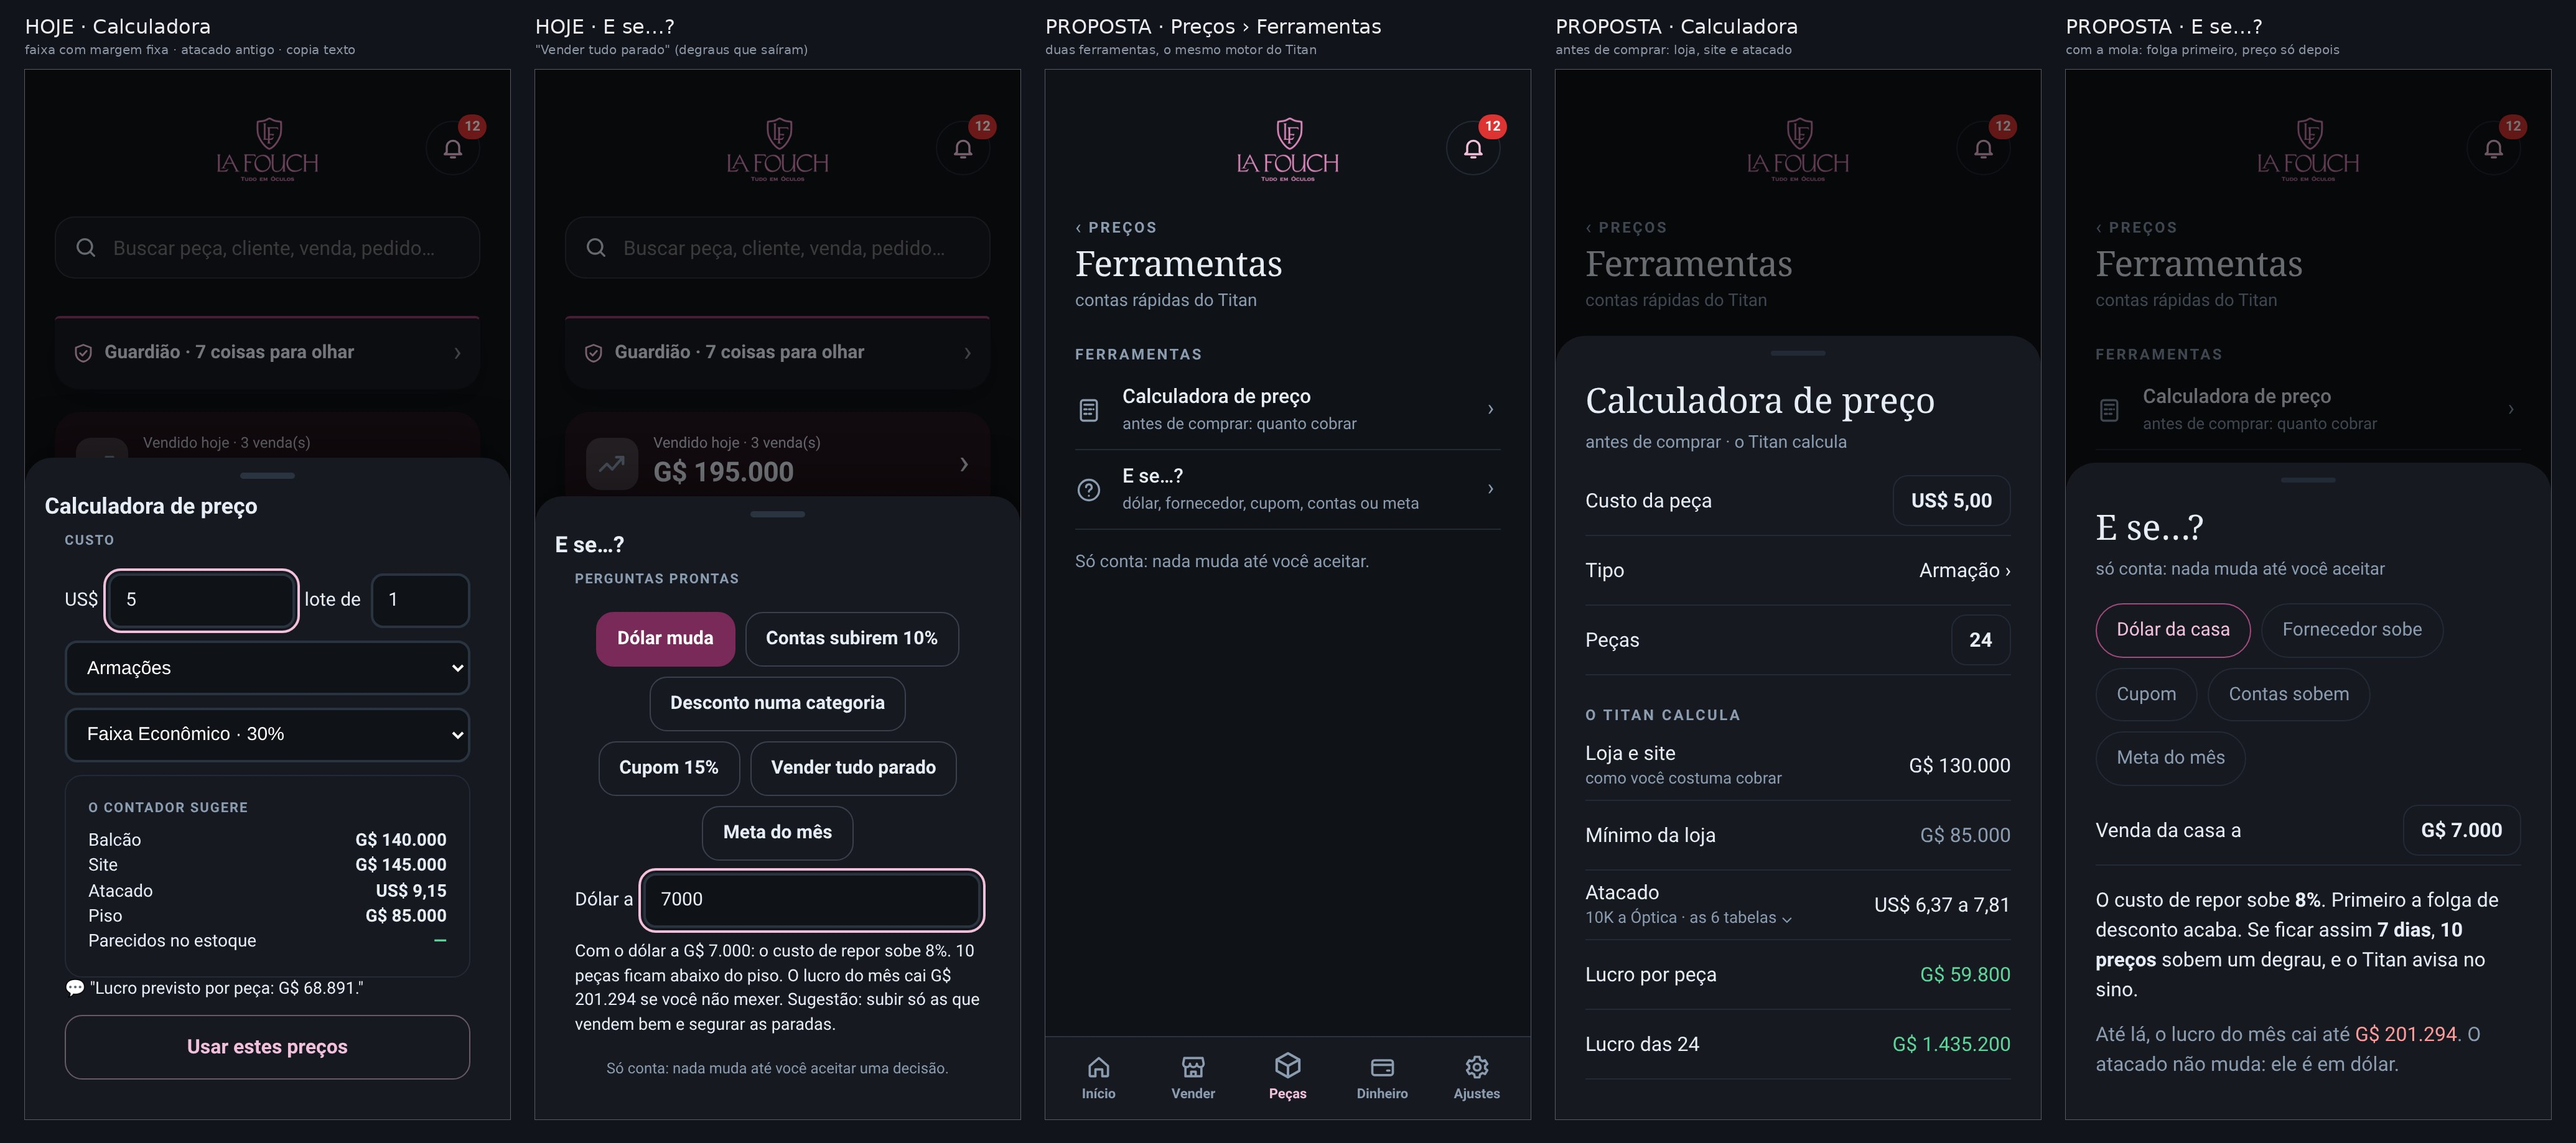
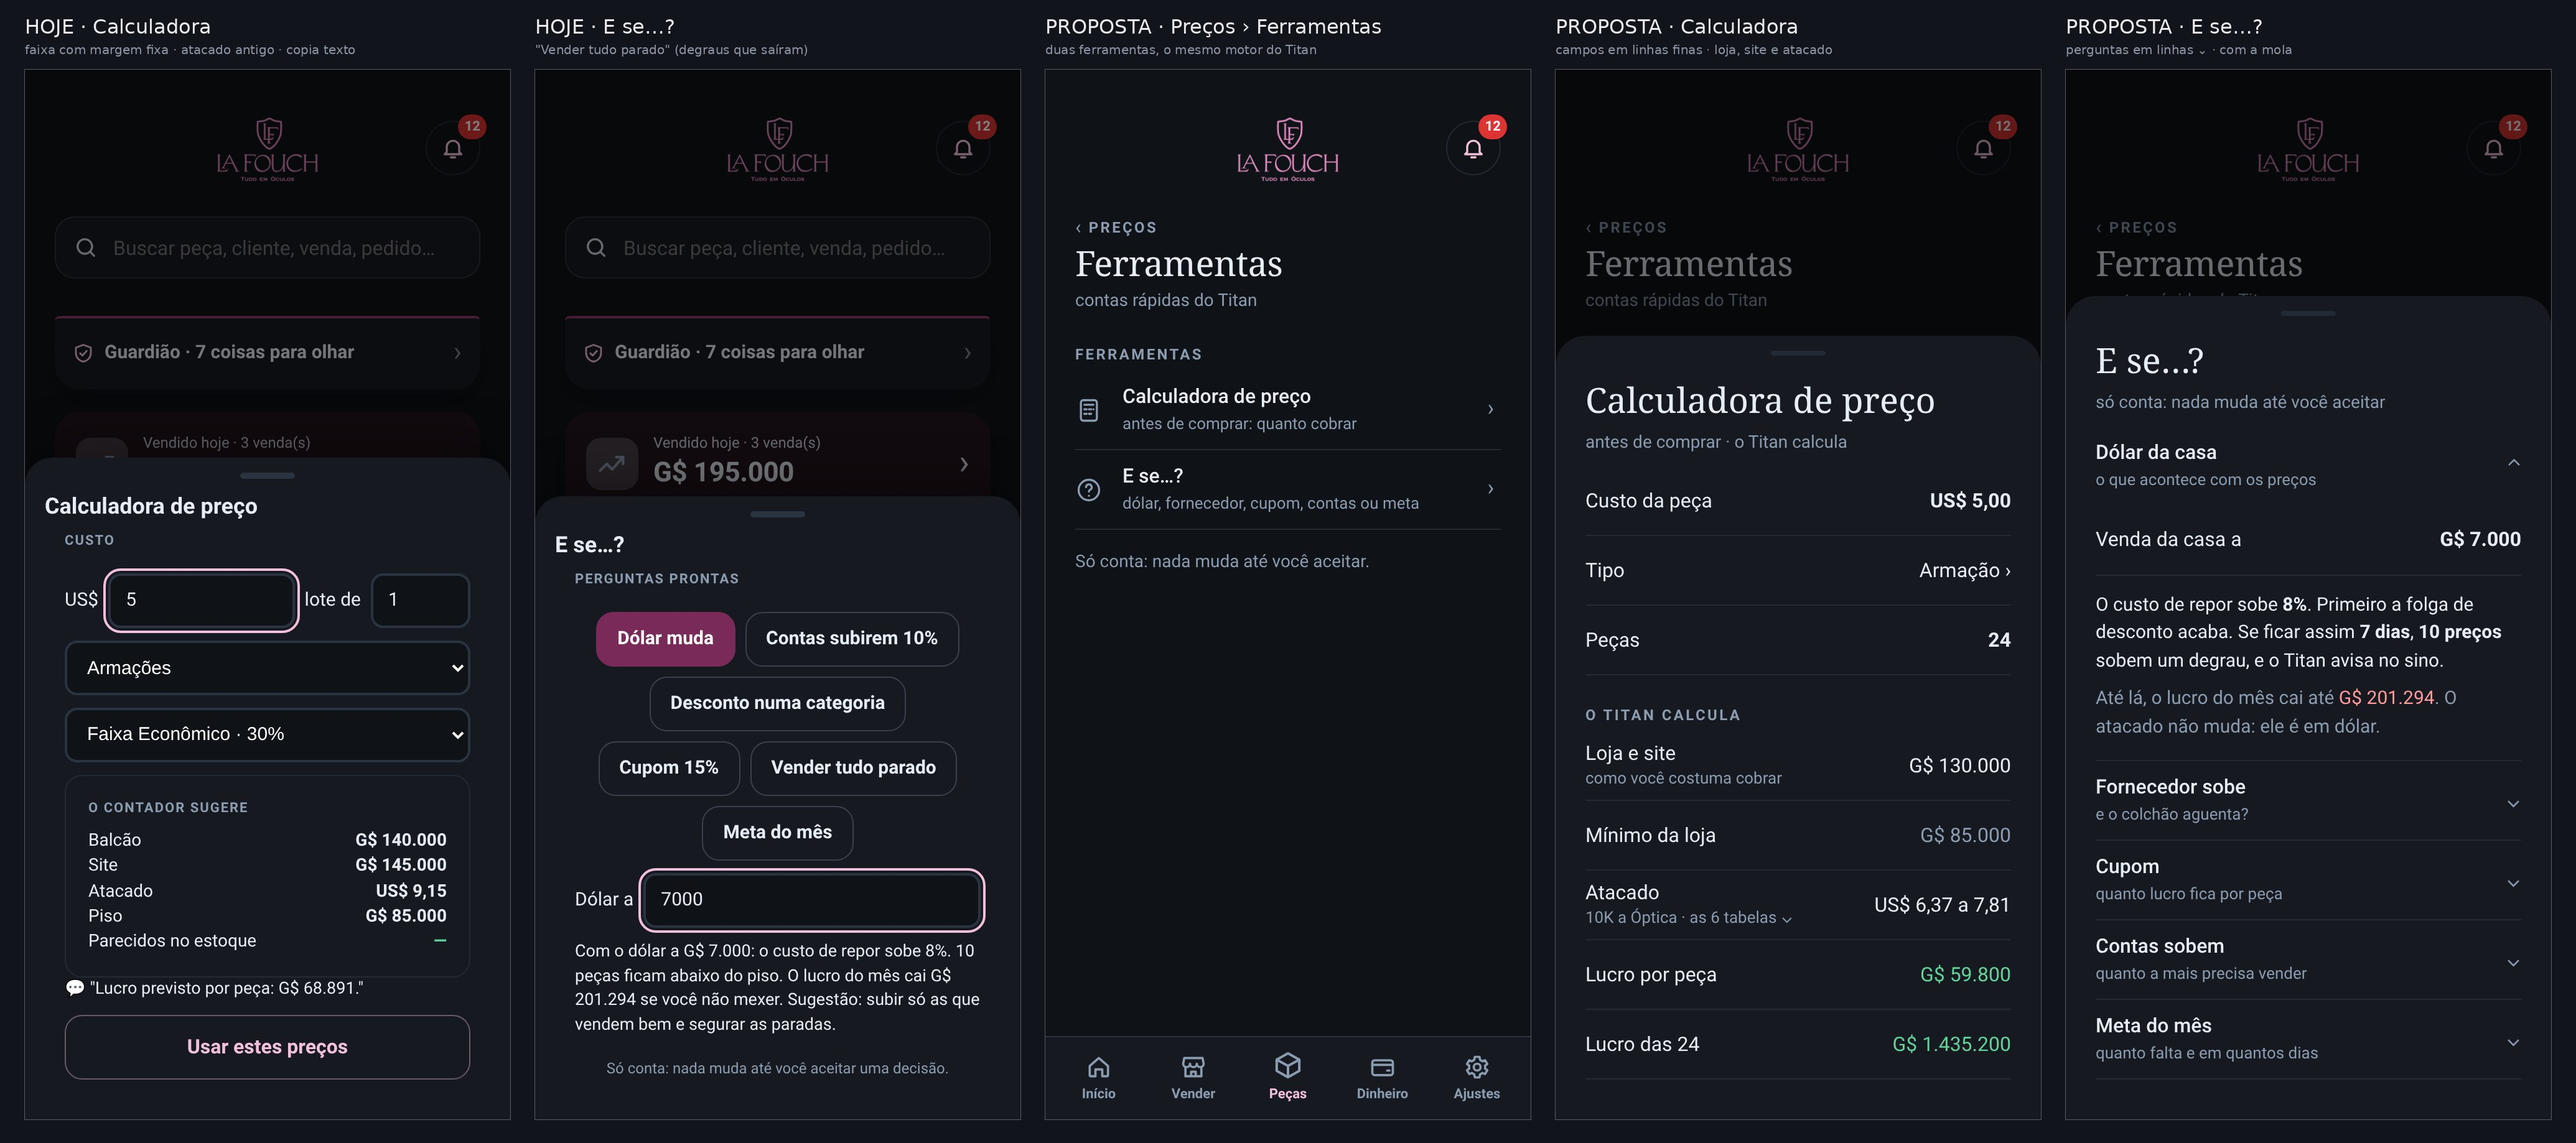
66: Ferramentas no padrão de luxo
Claude-Session: https://claude.ai/code/session_01Vj5GPRt4UBskC3w8v52h7G

diff --git a/work/s435/titan/esboco_66.py b/work/s435/titan/esboco_66.py
@@ -29,7 +29,7 @@ def base(pw):
 SHEET=r"""(h)=>{const d=document.createElement('div');d.style.cssText='position:fixed;inset:0;z-index:9999;background:rgba(0,0,0,.55);display:flex;align-items:flex-end';
  d.innerHTML='<div style="width:100%;background:var(--panel,#1b1f27);border-radius:24px 24px 0 0;padding:12px 24px 32px;color:var(--fg)"><div style="width:44px;height:4px;border-radius:2px;background:var(--line2);margin:0 auto 16px"></div>'+h+'</div>';document.body.appendChild(d)}"""
 LR=r"""const Lr=(r,v,c,sub)=>'<div style="display:flex;align-items:center;justify-content:space-between;gap:16px;min-height:56px;border-bottom:1px solid var(--line2);font-size:16px"><span>'+r+(sub?'<small style="display:block;font-size:13px;color:var(--mute)">'+sub+'</small>':'')+'</span><span style="color:'+(c||'var(--fg)')+';white-space:nowrap">'+v+'</span></div>';
- const In=(r,v)=>'<div style="display:flex;align-items:center;justify-content:space-between;min-height:56px;border-bottom:1px solid var(--line2);font-size:16px"><span>'+r+'</span><span style="border:1px solid var(--line2);border-radius:12px;padding:8px 14px;font-weight:600">'+v+'</span></div>';
+ const In=(r,v)=>'<div style="display:flex;align-items:center;justify-content:space-between;min-height:56px;border-bottom:1px solid var(--line2);font-size:16px"><span>'+r+'</span><span style="font-weight:600">'+v+'</span></div>';
  const Lb=t=>'<div style="font-size:12px;font-weight:700;letter-spacing:.14em;text-transform:uppercase;color:var(--mute);margin:24px 0 4px">'+t+'</div>';"""
 def calc(pw):
   b,pg,w=base(pw)
@@ -40,11 +40,14 @@ def calc(pw):
   pg.evaluate(SHEET,h);w(400);confere(pg,'Calculadora');x=shot(pg,'c66');b.close();return x
 def ese(pw):
   b,pg,w=base(pw)
-  h=pg.evaluate("()=>{"+LR+r"""const C=(t,on)=>'<span style="display:inline-block;padding:10px 16px;border-radius:22px;border:1px solid '+(on?'var(--accent,#c06)':'var(--line2)')+';color:'+(on?'var(--accent-fg,#f6b)':'var(--mute)')+';font-size:15px;margin:0 8px 8px 0">'+t+'</span>';
-   return '<h2 style="margin:0;font-family:var(--serif,Georgia,serif);font-weight:400;font-size:28px">E se…?</h2><div style="color:var(--mute);font-size:14px;margin:4px 0 16px">só conta: nada muda até você aceitar</div>'+
-   '<div>'+C('Dólar da casa',1)+C('Fornecedor sobe')+C('Cupom')+C('Contas sobem')+C('Meta do mês')+'</div>'+In('Venda da casa a','G$ 7.000')+
-   '<div style="font-size:16px;line-height:1.5;margin:16px 0 0">O custo de repor sobe <b>8%</b>. Primeiro a folga de desconto acaba. Se ficar assim <b>7 dias</b>, <b>10 preços</b> sobem um degrau, e o Titan avisa no sino.</div>'+
-   '<div style="font-size:16px;line-height:1.5;margin:12px 0 0;color:var(--mute)">Até lá, o lucro do mês cai até <span style="color:var(--bad,#e5484d)">G$ 201.294</span>. O atacado não muda: ele é em dólar.</div>'}""")
+  # regra 16: perguntas = linhas com ⌄ (ler: abre ali); a aberta mostra o campo em linha fina e a resposta
+  h=pg.evaluate("()=>{"+LR+r"""const Q=(t,s,ab)=>'<div style="display:flex;align-items:center;gap:16px;min-height:64px;border-bottom:'+(ab?'0':'1px solid var(--line2)')+'"><span style="flex:1"><b style="display:block;font-size:16px;font-weight:500">'+t+'</b><small style="font-size:13px;color:var(--mute)">'+s+'</small></span><i style="font-style:normal;color:var(--mute);font-size:16px;display:inline-block;transform:rotate('+(ab?'180deg':'0')+')">⌄</i></div>';
+   return '<h2 style="margin:0;font-family:var(--serif,Georgia,serif);font-weight:400;font-size:28px">E se…?</h2><div style="color:var(--mute);font-size:14px;margin:4px 0 8px">só conta: nada muda até você aceitar</div>'+
+   Q('Dólar da casa','o que acontece com os preços',1)+
+   '<div style="padding:0 0 16px;border-bottom:1px solid var(--line2)">'+In('Venda da casa a','G$ 7.000')+
+   '<div style="font-size:15px;line-height:1.5;margin:12px 0 0">O custo de repor sobe <b>8%</b>. Primeiro a folga de desconto acaba. Se ficar assim <b>7 dias</b>, <b>10 preços</b> sobem um degrau, e o Titan avisa no sino.</div>'+
+   '<div style="font-size:15px;line-height:1.5;margin:8px 0 0;color:var(--mute)">Até lá, o lucro do mês cai até <span style="color:var(--bad,#e5484d)">G$ 201.294</span>. O atacado não muda: ele é em dólar.</div></div>'+
+   Q('Fornecedor sobe','e o colchão aguenta?',0)+Q('Cupom','quanto lucro fica por peça',0)+Q('Contas sobem','quanto a mais precisa vender',0)+Q('Meta do mês','quanto falta e em quantos dias',0)}""")
   pg.evaluate(SHEET,h);w(400);confere(pg,'E se');x=shot(pg,'e66');b.close();return x
 def setor(pw):
   b,pg,w=base(pw);pg.add_style_tag(content='#mainnav .mn{color:var(--mute)!important}#mainnav .mn svg{stroke:var(--mute)!important}#mainnav .mn::after,#mainnav .mn i{display:none!important}')
@@ -54,6 +57,6 @@ if __name__=='__main__':
   quadro('esboco_66_ferramentas_titan.jpg',[('HOJE · Calculadora','faixa com margem fixa · atacado antigo · copia texto',Image.open(O+'h66_calc.png').crop((0,0,780,1688))),
     ('HOJE · E se…?','"Vender tudo parado" (degraus que saíram)',Image.open(O+'h66_ese.png').crop((0,0,780,1688))),
     ('PROPOSTA · Preços › Ferramentas','duas ferramentas, o mesmo motor do Titan',setor(pw)),
-    ('PROPOSTA · Calculadora','antes de comprar: loja, site e atacado',calc(pw)),
-    ('PROPOSTA · E se…?','com a mola: folga primeiro, preço só depois',ese(pw))])
+    ('PROPOSTA · Calculadora','campos em linhas finas · loja, site e atacado',calc(pw)),
+    ('PROPOSTA · E se…?','perguntas em linhas ⌄ · com a mola',ese(pw))])
  for n,f in REL: print(n,len(f),f[:4])

diff --git a/docs/FALTA-APROVAR-15-11.md b/docs/FALTA-APROVAR-15-11.md
@@ -1133,3 +1133,4 @@ Não são esquecimento (estavam na lista, parados de propósito ou por ordem do 
 - 22/11 13:53 · DONO: 'o atacado só precisa dar lucro, não tem que pensar nas contas, somente dar lucro bom' → APROVADO: as contas do mês ficam com o varejo; o atacado só dá lucro. (Junto, o colchão do atacado = só a alta do fornecedor, 3% para começar.) 65b v3 com as margens novas: Óptica 56% · Vendedor 45% · 1K 36% · 2K 32% · 5K 29% · 10K 27%.
 - 22/11 13:55 · DONO: 'Perfeito' → 65b v3 APROVADO (margens de atacado calculadas pelo Titan; colchão 3%; sem contas). Pediu o lucro total simulado de cada tabela — tabela no estudo: no pedido mínimo, só acetato de US$ 5: Óptica (US$ 500) US$ 125 · Vendedor (US$ 500) US$ 100 · 1K US$ 150 · 2K US$ 260 · 5K US$ 550 · 10K US$ 1.000.
 - 22/11 14:20 · ESBOCO: esboço 66 enviado — Titan, setor FERRAMENTAS: (1) Preços › Ferramentas com 2 linhas: Calculadora de preço ('antes de comprar: quanto cobrar') e E se…? ('dólar, fornecedor, cupom, contas ou meta'); (2) Calculadora (janela): Custo US$ 5,00 · Tipo › · Peças 24 → O Titan calcula: Loja e site G$ 130.000 ('como você costuma cobrar', exemplo do dono) · Mínimo da loja G$ 85.000 · Atacado US$ 6,37 a 7,81 (as 6 tabelas ⌄) · Lucro por peça G$ 59.800 · Lucro das 24 G$ 1.435.200; saem a escolha de FAIXA com margem fixa, o atacado da fórmula antiga (US$ 9,15 com contas), o site com folga extra e 'Usar estes preços' (só copiava texto); (3) E se…? com a MOLA: chips Dólar da casa · Fornecedor sobe · Cupom · Contas sobem · Meta do mês; 'Venda da casa a G$ 7.000' → repor +8%, a folga de desconto acaba primeiro, se ficar 7 dias 10 preços sobem um degrau (sino), lucro do mês cai até G$ 201.294, atacado não muda (dólar); sai 'Vender tudo parado' (degraus fixos).
+- 22/11 14:05 · DONO: as duas ferramentas precisam ficar no padrão de luxo → 66 refeito: Calculadora com os CAMPOS EM LINHAS FINAS (regra 15: o campo é a linha, valor à direita, sem caixa); E se…? com as perguntas em LINHAS ⌄ (regra 16, ler: abre no lugar) — a aberta mostra o campo e a resposta; sem os botões-pílula. Achado: o campo com caixa do 64 (Preço da oferta) também deveria virar linha fina (uma regra só) — levar ao dono. Também perguntou se o APP está trabalhando: NÃO — a S436 não está em andamento, 3 recados meus sem ler (06:28, 12:53, 13:11) e a fila 65–68 parada; o dono precisa abrir a sessão APP e dar o comando.

diff --git a/docs/MEMORIA-PROJETO.md b/docs/MEMORIA-PROJETO.md
@@ -3635,3 +3635,4 @@ Testar TUDO, com muita calma, antes de dizer que está pronto ou de publicar: ca
 - 22/11 13:53 · DONO: 'o atacado só precisa dar lucro, não tem que pensar nas contas, somente dar lucro bom' → APROVADO: as contas do mês ficam com o varejo; o atacado só dá lucro. (Junto, o colchão do atacado = só a alta do fornecedor, 3% para começar.) 65b v3 com as margens novas: Óptica 56% · Vendedor 45% · 1K 36% · 2K 32% · 5K 29% · 10K 27%.
 - 22/11 13:55 · DONO: 'Perfeito' → 65b v3 APROVADO (margens de atacado calculadas pelo Titan; colchão 3%; sem contas). Pediu o lucro total simulado de cada tabela — tabela no estudo: no pedido mínimo, só acetato de US$ 5: Óptica (US$ 500) US$ 125 · Vendedor (US$ 500) US$ 100 · 1K US$ 150 · 2K US$ 260 · 5K US$ 550 · 10K US$ 1.000.
 - 22/11 14:20 · ESBOCO: esboço 66 enviado — Titan, setor FERRAMENTAS: (1) Preços › Ferramentas com 2 linhas: Calculadora de preço ('antes de comprar: quanto cobrar') e E se…? ('dólar, fornecedor, cupom, contas ou meta'); (2) Calculadora (janela): Custo US$ 5,00 · Tipo › · Peças 24 → O Titan calcula: Loja e site G$ 130.000 ('como você costuma cobrar', exemplo do dono) · Mínimo da loja G$ 85.000 · Atacado US$ 6,37 a 7,81 (as 6 tabelas ⌄) · Lucro por peça G$ 59.800 · Lucro das 24 G$ 1.435.200; saem a escolha de FAIXA com margem fixa, o atacado da fórmula antiga (US$ 9,15 com contas), o site com folga extra e 'Usar estes preços' (só copiava texto); (3) E se…? com a MOLA: chips Dólar da casa · Fornecedor sobe · Cupom · Contas sobem · Meta do mês; 'Venda da casa a G$ 7.000' → repor +8%, a folga de desconto acaba primeiro, se ficar 7 dias 10 preços sobem um degrau (sino), lucro do mês cai até G$ 201.294, atacado não muda (dólar); sai 'Vender tudo parado' (degraus fixos).
+- 22/11 14:05 · DONO: as duas ferramentas precisam ficar no padrão de luxo → 66 refeito: Calculadora com os CAMPOS EM LINHAS FINAS (regra 15: o campo é a linha, valor à direita, sem caixa); E se…? com as perguntas em LINHAS ⌄ (regra 16, ler: abre no lugar) — a aberta mostra o campo e a resposta; sem os botões-pílula. Achado: o campo com caixa do 64 (Preço da oferta) também deveria virar linha fina (uma regra só) — levar ao dono. Também perguntou se o APP está trabalhando: NÃO — a S436 não está em andamento, 3 recados meus sem ler (06:28, 12:53, 13:11) e a fila 65–68 parada; o dono precisa abrir a sessão APP e dar o comando.
